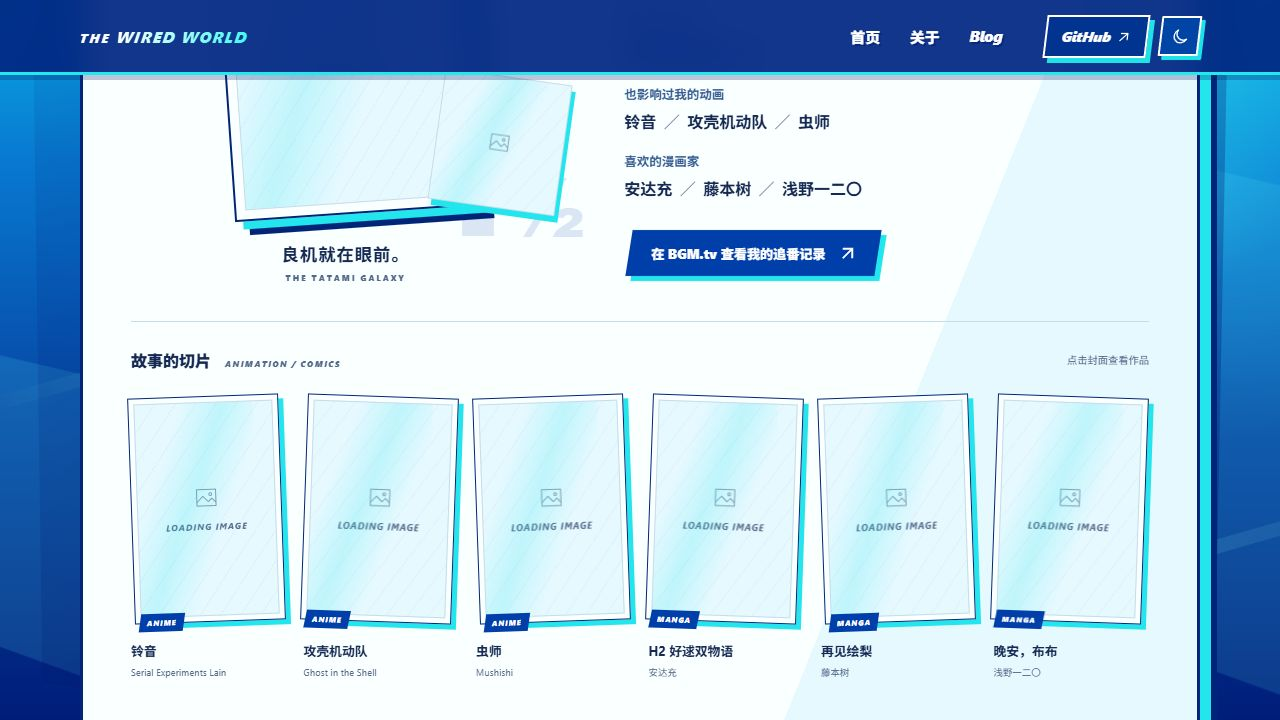
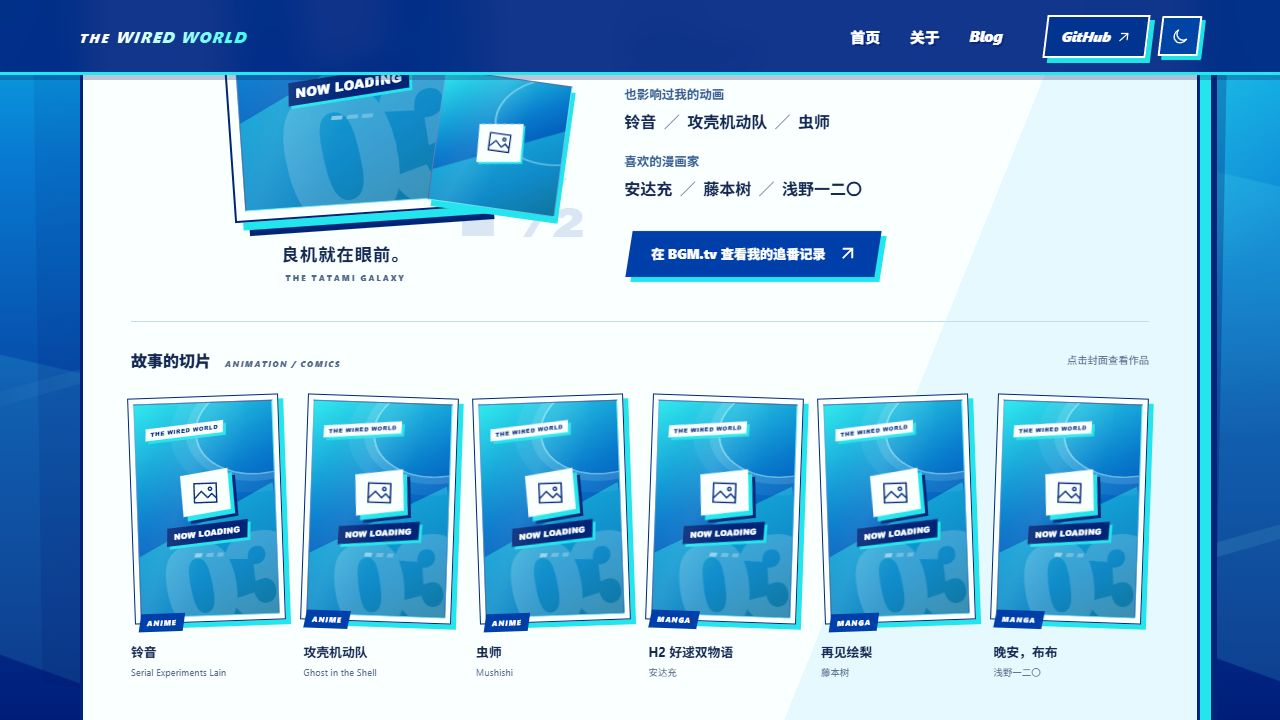
Style image placeholders for the three Persona inspired themes

diff --git a/src/components/ui/WiredImage.vue b/src/components/ui/WiredImage.vue
@@ -69,8 +69,18 @@ onUnmounted(() => { generation += 1; });
         :aria-label="state !== 'ready' && !hasPrevious && alt ? `${alt}（${state === 'error' ? '暂未加载' : '加载中'}）` : undefined"
     >
         <span class="wired-image-placeholder" aria-hidden="true">
-            <svg viewBox="0 0 40 40"><path d="M6 8h28v24H6zM6 27l9-9 8 8 5-5 6 6" /><circle cx="26" cy="15" r="2" /></svg>
-            <span>{{ state === 'error' ? '图片暂未加载' : 'LOADING IMAGE' }}</span>
+            <span class="image-placeholder-cut"></span>
+            <span class="image-placeholder-orbit"></span>
+            <span class="image-placeholder-index"></span>
+            <span class="image-placeholder-stamp">THE WIRED WORLD</span>
+            <span class="image-placeholder-signal">
+                <span class="image-placeholder-glyph">
+                    <svg class="image-symbol-photo" viewBox="0 0 40 40"><path d="M6 8h28v24H6zM6 27l9-9 8 8 5-5 6 6" /><circle cx="26" cy="15" r="2" /></svg>
+                    <svg class="image-symbol-tv" viewBox="0 0 40 40"><path d="m12 4 8 7 8-7M5 12h30v23H5zM9 16h19v15H9zM31 18v6" /><circle cx="31" cy="29" r="1" /></svg>
+                </span>
+                <span class="image-placeholder-caption">{{ state === 'error' ? '图片暂未加载' : 'NOW LOADING' }}</span>
+                <span class="image-placeholder-bars"><i></i><i></i><i></i></span>
+            </span>
         </span>
         <img v-if="hasPrevious && state !== 'ready'" class="wired-image-previous" :src="previousSrc" :alt="alt" :width="width" :height="height" draggable="false" />
         <img
@@ -99,19 +109,65 @@ onUnmounted(() => { generation += 1; });
 .wired-image-content { opacity: 0; transition: opacity 420ms var(--ease-out); }
 .is-ready .wired-image-content { opacity: 1; }
 .has-previous .wired-image-content { transition: none; }
-.wired-image-placeholder { position: absolute; inset: 0; display: flex; flex-direction: column; align-items: center; justify-content: center; gap: 10px; overflow: hidden; border: 1px solid var(--ui-line); color: var(--ui-muted); background: var(--ui-image-placeholder-bg, var(--ui-tint)); opacity: 1; transition: opacity 420ms var(--ease-out); }
-.wired-image-placeholder::before { position: absolute; inset: 0; background: repeating-linear-gradient(125deg, transparent 0 16px, color-mix(in srgb, var(--ui-accent) 4%, transparent) 16px 17px); content: ''; }
-.wired-image-placeholder::after { position: absolute; inset: 0; background: linear-gradient(110deg, transparent 30%, color-mix(in srgb, var(--ui-layer) 20%, transparent) 50%, transparent 70%); transform: translateX(-100%); animation: image-signal 2.1s ease-in-out infinite; content: ''; }
-.wired-image-placeholder svg { width: clamp(22px, 20%, 38px); fill: none; stroke: currentColor; stroke-width: 1.4; opacity: .7; }
-.wired-image-placeholder > span { font: italic 750 .54rem/1.4 var(--font-body); letter-spacing: .12em; text-align: center; }
+.wired-image-placeholder {
+    --image-stage-number: '03';
+    --image-stage-bg: linear-gradient(150deg, #31e9ee, #087acc 43%, #003eaa 75%, #00175e);
+    --image-stage-cut: #23e8ed;
+    --image-stage-copy: #faffff;
+    --image-stage-paper: #faffff;
+    --image-stage-ink: #002578;
+    --image-stage-layer: #22e5ed;
+    --image-stage-shadow: #002578;
+    position: absolute; inset: 0; container-type: inline-size; display: grid; place-items: center; overflow: hidden;
+    border: 1px solid color-mix(in srgb, var(--image-stage-copy) 35%, transparent);
+    color: var(--image-stage-copy); background: var(--ui-image-placeholder-bg, var(--image-stage-bg)); opacity: 1; transition: opacity 420ms var(--ease-out);
+}
+.wired-image-placeholder::after { position: absolute; inset: 0; pointer-events: none; background: linear-gradient(110deg, transparent 30%, #ffffff18 50%, transparent 70%); transform: translateX(-100%); animation: image-signal 2.8s ease-in-out infinite; content: ''; }
+.image-placeholder-cut { position: absolute; inset: 49% -18% -25% -20%; background: var(--image-stage-cut); clip-path: polygon(0 24%, 100% 0, 84% 100%, 0 100%); transform: rotate(-16deg); opacity: .45; }
+.image-placeholder-orbit { position: absolute; top: -21%; right: -43%; width: 100%; aspect-ratio: 1; border: 2px solid #d6fffc75; border-radius: 50%; box-shadow: 0 0 0 9px #d6fffc20, 0 0 0 25px #d6fffc10; transform: rotate(-10deg) scaleY(.7); }
+.image-placeholder-index { position: absolute; right: -6%; bottom: -5%; font: italic 1000 clamp(4rem, 86cqi, 28rem)/.8 var(--font-display); letter-spacing: -.14em; opacity: .18; transform: rotate(-9deg); }
+.image-placeholder-index::before { content: var(--image-stage-number); }
+.image-placeholder-stamp { position: absolute; top: 10%; left: 7%; max-width: 86%; padding: 3px 5px; color: var(--image-stage-ink); background: var(--image-stage-paper); font: italic 900 clamp(.35rem, 3.5cqi, .64rem)/1.1 var(--font-display); letter-spacing: .1em; transform: rotate(-5deg) skewX(-8deg); box-shadow: 3px 3px 0 var(--image-stage-layer); white-space: nowrap; }
+.image-placeholder-signal { position: relative; display: grid; justify-items: center; gap: clamp(10px, 8cqi, 24px); width: 86%; padding-top: 8%; }
+.image-placeholder-glyph { position: relative; display: grid; place-items: center; width: 41%; min-width: 34px; max-width: 104px; aspect-ratio: 1.16; color: var(--image-stage-ink); background: var(--image-stage-paper); box-shadow: 4px 5px 0 var(--image-stage-layer), 7px 8px 0 var(--image-stage-shadow); transform: rotate(-8deg) skewX(-5deg); }
+.image-placeholder-glyph svg { display: block; width: 66%; height: auto; fill: none; stroke: currentColor; stroke-width: 1.8; transform: skewX(5deg) rotate(8deg); }
+.image-placeholder-glyph .image-symbol-tv { display: none; }
+.image-placeholder-caption { padding: 4px 7px; color: var(--image-stage-paper); background: var(--image-stage-ink); font: italic 950 clamp(.49rem, 5.8cqi, 1.1rem)/1.2 var(--font-display); letter-spacing: .035em; white-space: nowrap; transform: rotate(-5deg) skewX(-8deg); box-shadow: 3px 3px 0 var(--image-stage-layer); }
+.image-placeholder-bars { display: flex; gap: 4px; transform: skewX(-18deg); }
+.image-placeholder-bars i { width: clamp(5px, 5cqi, 12px); height: 4px; background: currentColor; animation: image-pulse 1.2s ease-in-out infinite; }
+.image-placeholder-bars i:nth-child(2) { animation-delay: 150ms; }.image-placeholder-bars i:nth-child(3) { animation-delay: 300ms; }
 .is-ready .wired-image-placeholder, .has-previous .wired-image-placeholder { opacity: 0; visibility: hidden; transition: opacity 420ms var(--ease-out), visibility 0s 420ms; }
-.is-ready .wired-image-placeholder::after, .has-previous .wired-image-placeholder::after, .is-error .wired-image-placeholder::after { animation: none; }
-.is-error .wired-image-placeholder > span { letter-spacing: .04em; }
-.wired-image--compact .wired-image-placeholder { gap: 0; }
-.wired-image--compact .wired-image-placeholder > span { display: none; }
+.is-ready .wired-image-placeholder::after, .has-previous .wired-image-placeholder::after, .is-error .wired-image-placeholder::after,
+.is-ready .image-placeholder-bars i, .has-previous .image-placeholder-bars i, .is-error .image-placeholder-bars i { animation: none; }
+.is-error .image-placeholder-bars { opacity: .35; }
+
+:global(html[data-theme="dark"] .wired-image-placeholder) { --image-stage-number: '05'; --image-stage-bg: #0a0a0d; --image-stage-cut: #e5222d; --image-stage-ink: #09090c; --image-stage-paper: #f6f2ec; --image-stage-layer: #e5222d; --image-stage-shadow: #000; }
+:global(html[data-theme="dark"] .image-placeholder-cut) { inset: 2% -25% -8% -20%; opacity: 1; clip-path: polygon(16% 0, 100% 17%, 75% 100%, 0 79%); transform: rotate(-14deg); background: radial-gradient(circle, #09090c66 0 1px, transparent 1.4px) 0 0 / 6px 6px, var(--image-stage-cut); }
+:global(html[data-theme="dark"] .image-placeholder-orbit) { top: -15%; right: -49%; border-radius: 0; border: 6px solid #f6f2ec; box-shadow: 0 0 0 5px #08080a, 0 0 0 10px #f6f2ec; opacity: .9; transform: rotate(29deg); }
+:global(html[data-theme="dark"] .image-placeholder-index) { bottom: -2%; right: -12%; opacity: .82; color: #09090c; -webkit-text-stroke: 1px #f6f2ec; transform: rotate(9deg); }
+:global(html[data-theme="dark"] .image-placeholder-stamp) { top: 9%; left: 5%; transform: rotate(-10deg); box-shadow: 3px 3px 0 #09090c; }
+:global(html[data-theme="dark"] .image-placeholder-glyph) { clip-path: polygon(6% 0, 100% 7%, 91% 100%, 0 89%); filter: drop-shadow(4px 5px 0 #09090c); transform: rotate(8deg) skewX(-8deg); }
+:global(html[data-theme="dark"] .image-placeholder-glyph svg) { transform: rotate(-8deg) skewX(8deg); }
+:global(html[data-theme="dark"] .image-placeholder-caption) { color: #09090c; background: #f6f2ec; box-shadow: 4px 4px 0 #09090c; transform: rotate(-8deg); }
+
+:global(html[data-theme="golden"] .wired-image-placeholder) { --image-stage-number: '04'; --image-stage-bg: linear-gradient(140deg, #fff16a, #ffe32d 48%, #ffd21b); --image-stage-copy: #191814; --image-stage-paper: #fffdf2; --image-stage-ink: #191814; --image-stage-layer: #40b968; --image-stage-shadow: #fffdf2; }
+:global(html[data-theme="golden"] .image-placeholder-cut) { inset: 53% -25% -17% -22%; background: repeating-linear-gradient(0deg, #40b968 0 8px, #fffdf2 8px 12px, #22cfdf 12px 20px, #fffdf2 20px 24px, #ee9a29 24px 32px, #fffdf2 32px 36px, #e64c78 36px 44px, #fffdf2 44px 48px); opacity: 1; transform: rotate(-24deg); }
+:global(html[data-theme="golden"] .image-placeholder-orbit) { border-color: #fffdf2; box-shadow: 0 0 0 9px #ed982135, 0 0 0 22px #fffdf260; }
+:global(html[data-theme="golden"] .image-placeholder-index) { opacity: .45; color: transparent; -webkit-text-stroke: 2px #191814; transform: rotate(8deg); }
+:global(html[data-theme="golden"] .image-placeholder-glyph) { color: #ffe32d; background: #191814; transform: rotate(-6deg); }
+:global(html[data-theme="golden"] .image-placeholder-glyph .image-symbol-photo) { display: none; }
+:global(html[data-theme="golden"] .image-placeholder-glyph .image-symbol-tv) { display: block; transform: rotate(6deg); }
+:global(html[data-theme="golden"] .image-placeholder-caption) { color: #ffe32d; background: #191814; }
+
+.wired-image--compact .image-placeholder-index, .wired-image--compact .image-placeholder-stamp,
+.wired-image--compact .image-placeholder-caption, .wired-image--compact .image-placeholder-bars { display: none; }
+.wired-image--compact .image-placeholder-signal { width: 100%; padding: 0; gap: 0; }
+.wired-image--compact .image-placeholder-glyph { width: 45%; min-width: 0; max-width: 44px; box-shadow: 2px 2px 0 var(--image-stage-layer); }
+.wired-image--compact .image-placeholder-orbit { border-width: 2px; box-shadow: none; }
 @keyframes image-signal { to { transform: translateX(100%); } }
+@keyframes image-pulse { 50% { opacity: .25; transform: translateX(2px); } }
 @media (prefers-reduced-motion: reduce) {
     .wired-image-content, .wired-image-placeholder { transition: none; }
-    .wired-image-placeholder::after { animation: none; }
+    .wired-image-placeholder::after, .image-placeholder-bars i { animation: none; }
 }
 </style>

diff --git a/src/components/ui/README.md b/src/components/ui/README.md
@@ -121,9 +121,18 @@ import WiredAccent from '../components/ui/WiredAccent.vue';
 
 ## WiredImage
 
-**图片占位与淡入。** 图片下载并解码完成前显示主题色占位块，完成后淡入；加载失败时保留尺寸并显示“图片暂未加载”。源码：[WiredImage.vue](WiredImage.vue)。
+**图片占位与淡入。** 图片下载并解码完成前显示主题占位画面，完成后淡入；加载失败时保留尺寸并显示“图片暂未加载”。白天采用蓝色渐变、03、青色层叠与水波圆环；黑夜采用红黑斜切拼贴、05、网点和倾斜纸片；隐藏黄色主题采用 04、电视图标和彩色条纹。源码：[WiredImage.vue](WiredImage.vue)。
 
 ![图片加载前的主题色占位效果](../../../docs/images/ui/wired-image.jpg)
+
+<details>
+<summary>查看黑夜与黄色主题的占位设计</summary>
+
+![红黑主题的拼贴占位效果](../../../docs/images/ui/wired-image-dark.jpg)
+
+![黄色主题的电视信号占位效果](../../../docs/images/ui/wired-image-golden.jpg)
+
+</details>
 
 ```vue
 <script setup lang="ts">
@@ -147,11 +156,11 @@ import WiredImage from '../components/ui/WiredImage.vue';
 - `width` / `height` 必填，用原图尺寸预留比例，避免加载时布局跳动。
 - `loading` 默认 `lazy`；首屏插画可设为 `eager`。
 - `fill` 填满已有尺寸的父容器；默认按原图比例显示。用 `--ui-image-fit: cover` 调整裁切，默认 `contain`。
-- `compact` 用于校徽、小装饰等，隐藏占位文字。
+- `compact` 用于校徽、小装饰等，隐藏占位文字和大号数字，保留简化的主题图框。
 - `keepPrevious` 用于眨眼等连续切换，下一张未准备好时保留已加载的上一张，并直接切换，避免闪烁。
 - `@ready` 在当前图片下载、解码完成后给出源地址；`@error` 给出失败的源地址。缓存命中和 `src` 变化也会处理。
 - `class`、`style` 和交互事件传给外层 `span`。通过 `:deep(.wired-image-content)` 定制内部图片；装饰图使用 `alt="" aria-hidden="true"`。
-- 占位块自动适配三个主题，减少动态效果偏好下关闭扫光和淡入。
+- 占位块自动适配三个主题，减少动态效果偏好下关闭扫光、信号条动画和淡入。
 
 ## WiredPanel
 
